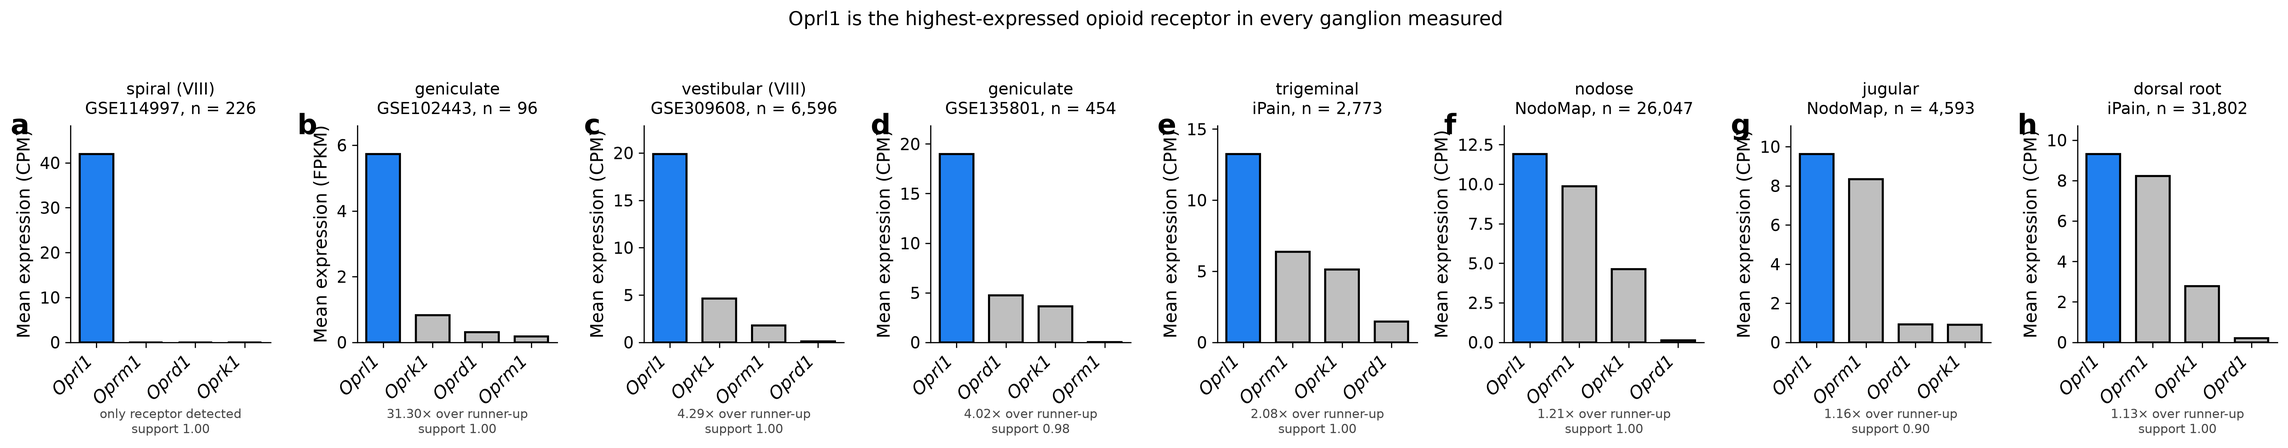
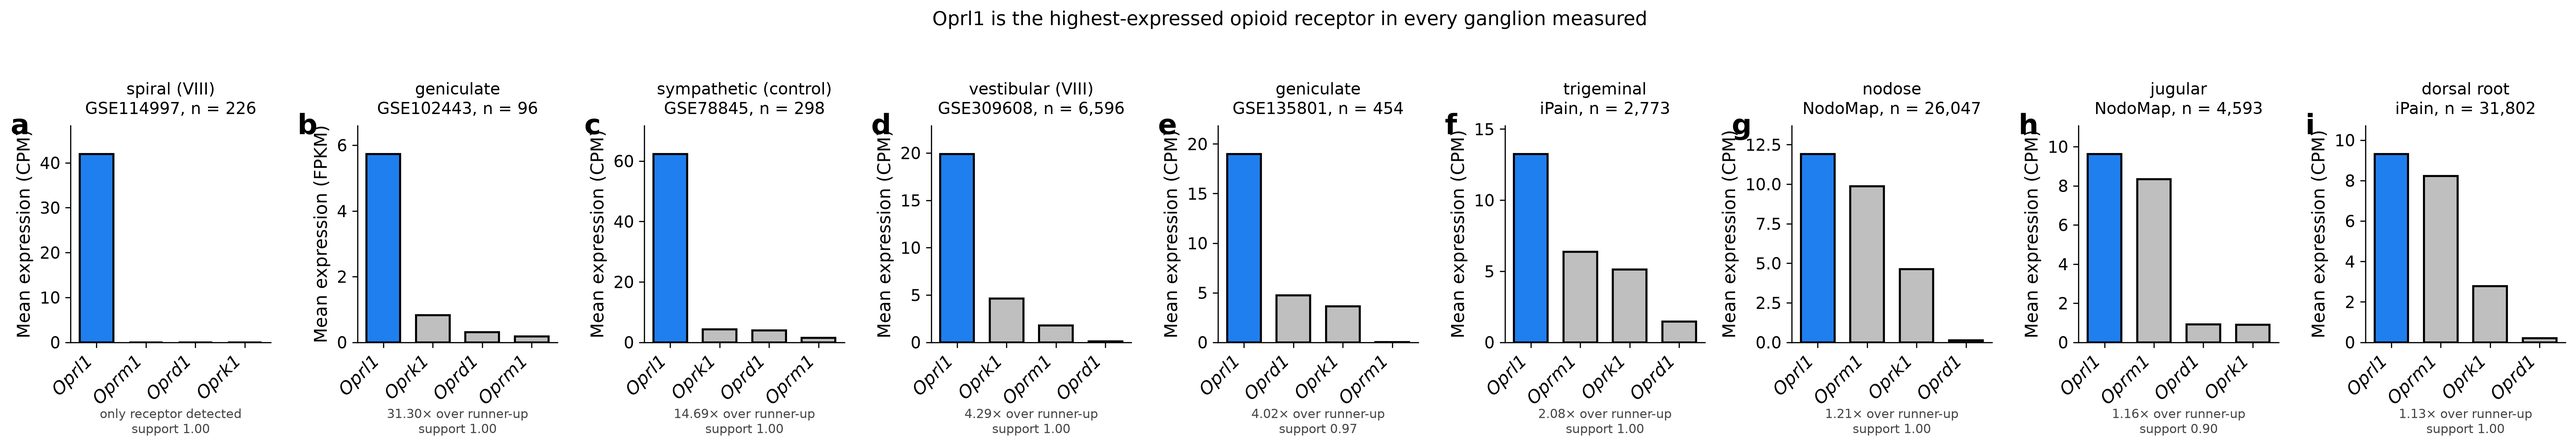
The sympathetic control does not break the pattern; drop "sensory" from the title
The title asserted a restriction to sensory neurons for six revisions without
that restriction being tested. Sympathetic neurons are the control: peripheral,
not sensory, neural-crest-derived, and available at the same full-length depth
as the strongest sensory datasets.

GSE78845, Furlan et al. 2016, 298 mouse thoracic sympathetic neurons, median
library 33,099, identity confirmed by Th 2,316 CPM, Dbh 1,822, Prph 1,222:

  Oprl1  62.30 CPM  82.2% of cells
  Oprk1   4.24       7.0%
  Oprd1   3.90      10.4%
  Oprm1   1.48       4.4%

Margin 14.69x over the runner-up (95% interval 9.35 to 27.27), 42x over Oprm1,
support 1.0000 at 10,000 resamples. Oprl1 sits at the 81.2nd percentile of
expressed genes, above the nodose (73.6) and geniculate (63.8) figures.

The control fails to break the pattern and instead shows it at a larger margin
than any sensory ganglion except the geniculate and the spiral. The claim is
therefore broader than the title stated, and "sensory" is removed: the document
now reads "the dominant opioid receptor of peripheral neurons".

Recorded honestly as one dataset, 298 cells, in the platform class that produces
the largest margins throughout this project. The README says what would settle
the extent: a second sympathetic dataset and a parasympathetic or enteric one.

Figure 1 now carries nine panels with the sympathetic control labelled as such.

Claude-Session: https://claude.ai/code/session_011UyYrm5CJgnQP3S4BTTPes

diff --git a/README.md b/README.md
@@ -1,10 +1,11 @@
-# *Oprl1* is the dominant opioid receptor of peripheral sensory neurons
+# *Oprl1* is the dominant opioid receptor of peripheral neurons
 
 In mouse geniculate ganglion neurons *Oprl1* is expressed 31-fold above *Oprm1* and is detected in
 92% of cells. The ordering reproduces on a second platform from a second laboratory. It holds in
-eight datasets covering every sensory ganglion with public data, spanning all three developmental origins of the peripheral sensory system, including the
-dorsal root ganglion, where most work on opioid receptors in sensory neurons has been done and
-where that work targets *Oprm1*.
+eight datasets covering every sensory ganglion with public data, across all three developmental
+origins, including the dorsal root ganglion, where most work on opioid receptors in sensory
+neurons has been done and where that work targets *Oprm1*. It also holds in sympathetic neurons,
+which are not sensory.
 
 | input | tissue | source |
 |---|---|---|
@@ -34,6 +35,7 @@ unit (`results/*_opioid_levels.csv`):
 
 | dataset | tissue | *Oprl1* | *Oprm1* | *Oprd1* | *Oprk1* | *Oprl1*:*Oprm1* |
 |---|---|---|---|---|---|---|
+| GSE78845 (CPM) | sympathetic (control) | 62.30 | 1.48 | 3.90 | 4.24 | 42× |
 | GSE114997 (CPM) | spiral (VIII) | 41.94 | 0.00 | 0.00 | 0.00 | only one detected |
 | GSE309608 (CPM) | vestibular (VIII) | 19.88 | 1.78 | 0.09 | 4.63 | 11.2× |
 | GSE102443 (FPKM) | geniculate | 5.73 | 0.18 | 0.31 | 0.83 | 31× |
@@ -81,6 +83,25 @@ million reads, *Oprl1* is detected in 74.8% of cells at 41.94 CPM and *Oprm1*, *
 Depth is 730-fold above the nodose droplet median, which is what makes a zero interpretable. The
 same neurons carry *Scn1a* at 310.2 CPM, *Pvalb* at 882.6 and *Scn10a* at 0.00, the Nav1.1
 profile that section 3 predicts should be *Oprl1*-high.
+
+### The sensory restriction does not hold
+
+The title said sensory for six revisions without that being tested. Sympathetic neurons are the
+control: peripheral, not sensory, neural-crest-derived, and available at the same full-length
+depth as the strongest sensory datasets. In 298 mouse thoracic sympathetic neurons (Furlan et al.
+2016, median library 33,099, identity confirmed by *Th* 2,316 CPM and *Dbh* 1,822), *Oprl1*
+reaches 62.30 CPM in 82.2% of cells against *Oprk1* 4.24, *Oprd1* 3.90 and *Oprm1* 1.48. The
+margin is 14.69× over the runner-up and 42× over *Oprm1*, with support 1.0000.
+
+The control does not break the pattern. It shows the pattern at a larger margin than any sensory
+ganglion except the geniculate and the spiral, and places *Oprl1* at the 81.2nd percentile of
+expressed genes, above both the nodose (73.6) and the geniculate (63.8). The word "sensory" has
+been removed from the title, since the restriction it asserted is not supported by the one
+experiment that tested it.
+
+This rests on a single dataset of 298 cells in the platform class that produces the largest
+margins throughout this project. A second sympathetic dataset, and a parasympathetic or enteric
+one, would establish how far the claim actually extends.
 
 One qualification applies to every row above. *Oprl1* dominates its receptor family without being
 an abundant transcript. It sits at the 73.6th percentile of the 32,565 genes expressed in nodose
@@ -131,6 +152,7 @@ preparations retain unspliced pre-mRNA and *Oprm1* spans 250 kb against *Oprl1*'
 | trigeminal (V) | crest and placode | measured |
 | dorsal root ganglion | neural crest | measured |
 | spiral (VIII) | otic placode | measured |
+| sympathetic (specificity control) | neural crest | measured |
 | vestibular (VIII) | otic placode | measured |
 | petrosal (IX) | epibranchial placode | not separable from pooled tissue |
 
@@ -479,6 +501,7 @@ python3 -m pytest tests -q                   # 33 unit tests
 - GSE102443 Dvoryanchikov et al. 2017, *Nat Commun*, 96 geniculate neurons, SMART-seq
 - GSE135801 Zhang et al. 2019, *Cell* (Zuker lab), 454 Phox2b+ geniculate neurons
 - GSE166648 Ludwig et al., dorsal vagal complex snRNA-seq, 72,128 nuclei
+- GSE78845 Furlan et al. 2016, 298 mouse thoracic sympathetic neurons, full-length
 - GSE309608 four mouse vestibular ganglia, 10x
 - GSE114997 Shrestha et al. 2018, *Cell*, 226 spiral ganglion neurons, SMART-seq
 - iPain Atlas, mouse trigeminal (84,658 cells) and dorsal root ganglion (191,798 cells), via CZ

diff --git a/results/EXTERNAL_GANGLIA_NOTES.md b/results/EXTERNAL_GANGLIA_NOTES.md
@@ -57,6 +57,31 @@ A first pass using a 500 UMI cutoff and a Snap25 CPM threshold called 88.6% of b
 and gave Oprl1 10.30 CPM. That filter was admitting ambient-dominated barcodes; the numbers above
 use the stricter one.
 
+## Sympathetic ganglion, GSE78845: the specificity control
+
+Furlan et al. 2016, 298 mouse thoracic sympathetic neurons, full-length, median library 33,099.
+Identity confirmed by Th 2,316 CPM, Dbh 1,822, Prph 1,222, Snap25 1,995.
+
+| gene | mean CPM | % of cells detected |
+|---|---|---|
+| Oprl1 | 62.30 | 82.2 |
+| Oprk1 | 4.24 | 7.0 |
+| Oprd1 | 3.90 | 10.4 |
+| Oprm1 | 1.48 | 4.4 |
+
+Margin 14.69x over the runner-up (95% interval 9.35 to 27.27), 42x over Oprm1, support 1.0000.
+Oprl1 sits at the 81.2nd percentile of expressed genes here, above the nodose (73.6) and
+geniculate (63.8) figures.
+
+This control was run to test whether the ordering is specific to sensory neurons. It is not.
+Sympathetic neurons are not sensory, are neural-crest-derived, and show the pattern at a larger
+margin than any sensory ganglion except the geniculate and the spiral. The restriction to
+"sensory" in earlier drafts of the title was an assumption that had never been tested, and the
+test does not support it.
+
+Caveats: one dataset, 298 cells, and a full-length preparation, which is the platform class that
+produces the largest margins throughout this project.
+
 ## Petrosal ganglion (IX)
 
 No public dataset isolates the petrosal. A GEO search across all assay types and organisms returns
